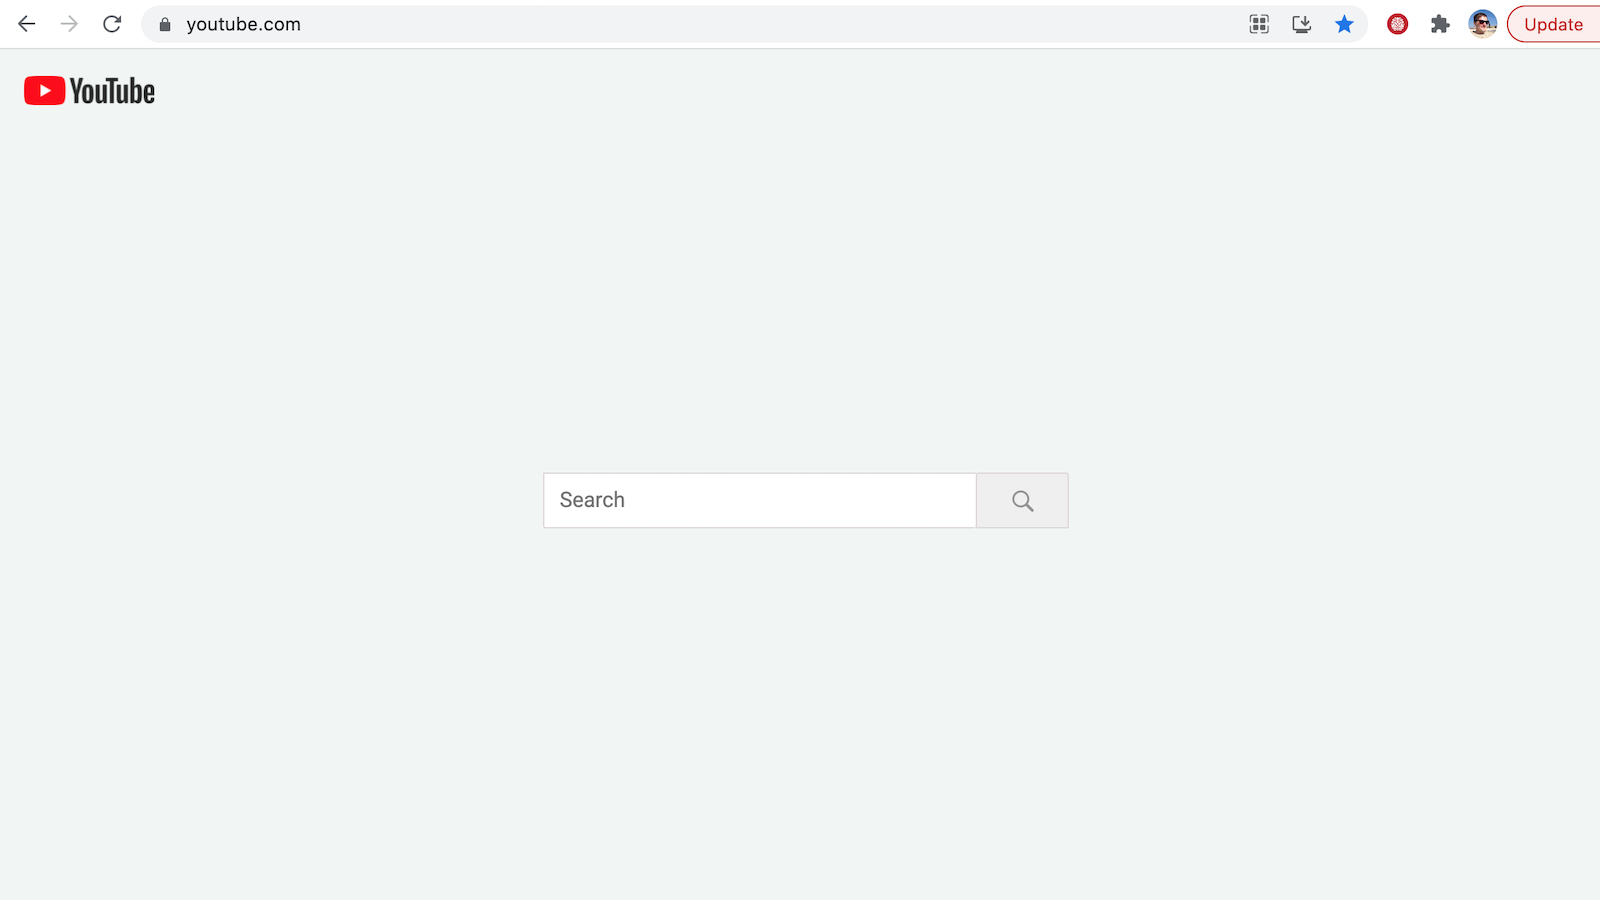
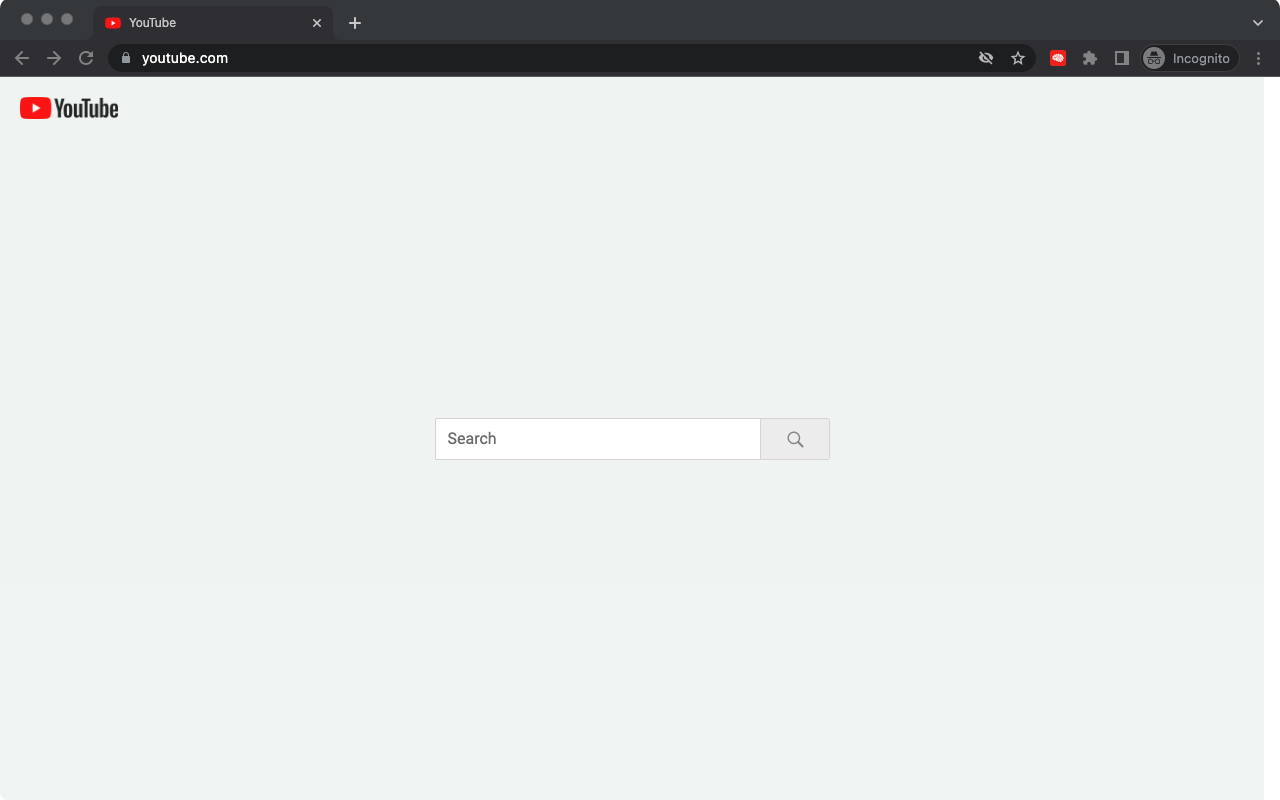
Updated screenshots, added hover menu screenshot

Changed region(s): [[0.0, 0.0, 1.0, 0.1562], [0.5938, 0.5312, 0.6562, 0.5625], [0.3438, 0.5312, 0.4062, 0.5625]]

diff --git a/README.md b/README.md
@@ -6,19 +6,19 @@
 
 ## Screenshots
 
-### 🏠 Distraction-free YouTube homepage.
+### 🏠 Distraction-free YouTube homepage
 
 <img width="800" alt="home_page" src="https://raw.githubusercontent.com/makaroni4/focused_youtube/main/readme/home_page.png">
 
-### 🔍 Clean search page.
+### 🔍 Clean search page
 
 <img width="800" alt="search_page" src="https://raw.githubusercontent.com/makaroni4/focused_youtube/main/readme/search_page.png">
 
-### 📺 Noise-free video page.
+### 📺 Noise-free video page
 
 <img width="800" alt="video_page" src="https://raw.githubusercontent.com/makaroni4/focused_youtube/main/readme/video_page.png">
 
-### 	:last_quarter_moon_with_face: Dark mode (depends of your system settings).
+### 	:last_quarter_moon_with_face: Dark mode (depends of your system settings)
 
 <img width="800" alt="search_page" src="https://raw.githubusercontent.com/makaroni4/focused_youtube/main/readme/home_page_dark.png">
 
@@ -28,9 +28,13 @@ Make sure to enable Dark Mode in your Chrome before testing it:
 
 https://support.google.com/chrome/answer/9275525?hl=en&co=GENIE.Platform%3DDesktop
 
-### 💬 An option to show/hide the comments section.
+### 💬 Options to show/hide comments or description
 
 <img width="800" alt="search_page" src="https://raw.githubusercontent.com/makaroni4/focused_youtube/main/readme/popup.png">
+
+### 🔗 Hover over YouTube logo to see the navigation menu
+
+<img width="800" alt="search_page" src="https://raw.githubusercontent.com/makaroni4/focused_youtube/main/readme/hover_menu.png">
 
 ### 📱 Works in mobile browser as well
 
